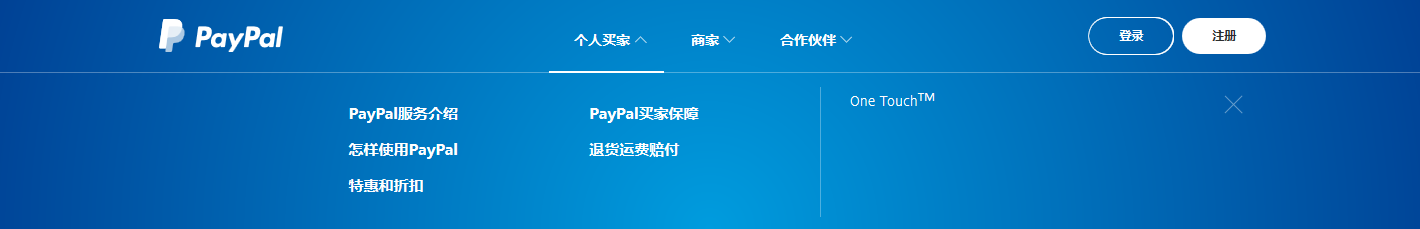
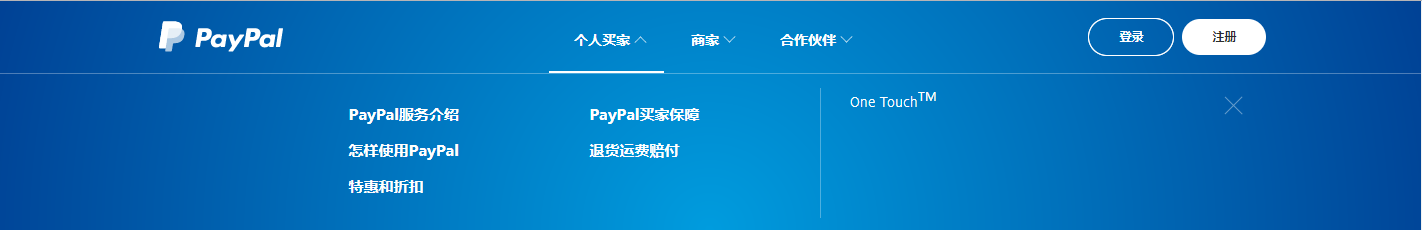
complete

diff --git a/css/index.css b/css/index.css
@@ -1,6 +1,7 @@
 body{
 	background-color: grey;
 	min-width: 988px;
+	margin: 0;
 }
 
 a{
@@ -13,11 +14,10 @@ li{
 
 
 .header{
-	background-color: green;
 	padding:0 100px;
 	position: relative;
 	color: white;
-	
+	background-image: url(../images/bkg_image.jpg);
 }
 
 .logo{
@@ -37,6 +37,7 @@ li{
 	text-align: center;
 	font-size: 1rem;
 	padding: 0;
+
 }
 
 .nav ul{
@@ -46,8 +47,10 @@ li{
 }
 .nav>ul>li{
 	display: inline-block;
-	margin-right: 40px;
 	padding-bottom: 20px;
+}
+.nav>ul>li>a{
+	padding: 1em;
 }
 .nav>ul>li>a:after{
 	content: "";
@@ -80,6 +83,7 @@ li{
 	text-align: center;
     padding: 20px 0;
     display: none;
+    
 }
 
 .subnav ul{
@@ -104,4 +108,8 @@ li{
 }
 .nav>ul>li:hover{
 	height: 180px;
+}
+
+.nav>ul>li>a:hover{
+	border-bottom: solid;
 }
